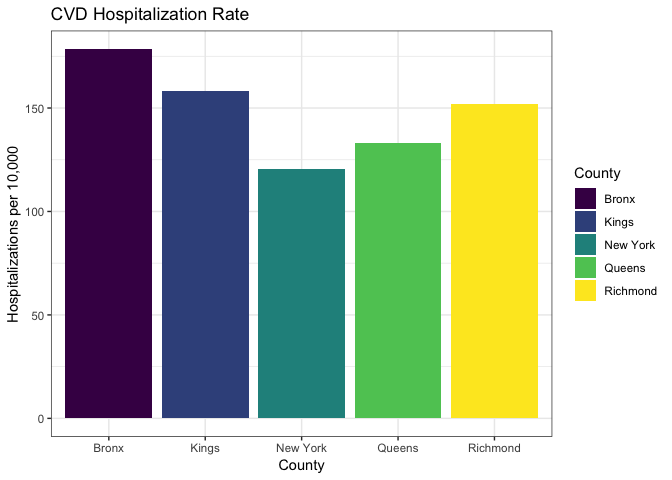
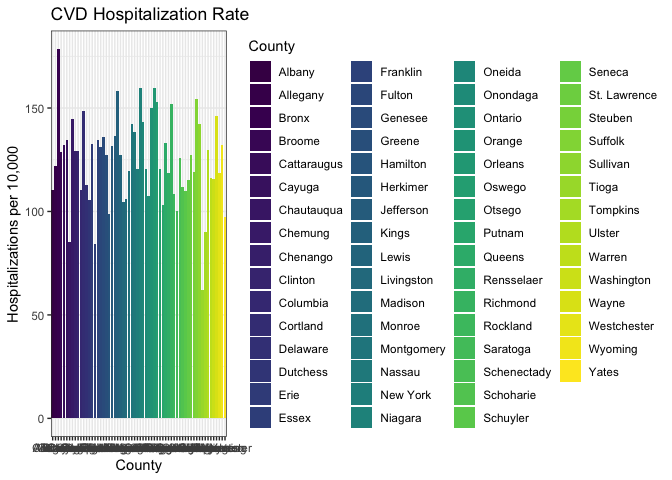
cvd by ny state for div

diff --git a/ashley_exploration_eda.md b/ashley_exploration_eda.md
@@ -51,9 +51,7 @@ Asthma Emergency Department Visit Rate per 10,000 by County in NYC, 2014
 asthma_ed_data = read_csv(file = "./data_AK/PA__Asthma_Emergency_Department_Visit_Rate_Per_10_000_by_County__Latest_Year.csv") %>% 
   janitor::clean_names() %>%
   select(county_name, event_count_rate, average_number_of_denominator_rate, 
-         percentage_rate_ratio) %>% 
-  filter(county_name %in% c("Bronx", "Kings", "New York", "Queens", 
-                            "Richmond"))
+         percentage_rate_ratio)
 ```
 
 Age-Adjusted Cardiovascular Disease Hospitalization Rate per 10,000 by County in NYC, 2012-2014
@@ -65,9 +63,7 @@ cvd_data = read_csv(file = "./data_AK/Community_Health__Age-adjusted_Cardiovascu
   janitor::clean_names() %>%
   filter(health_topic %in% "Cardiovascular Disease Indicators") %>% 
   select(county_name, event_count, average_number_of_denominator, 
-         percent_rate) %>% 
-  filter(county_name %in% c("Bronx", "Kings", "New York", "Queens", 
-                            "Richmond"))
+         percent_rate)
 ```
 
 Note: Richmond County = Staten Island, Kings County = Brooklyn. We can rename from county to boroughs.
@@ -89,6 +85,8 @@ asthma_ed_data %>%
 ```
 
     ## Warning: Ignoring unknown parameters: binwidth, bins, pad
+
+    ## Warning: Removed 1 rows containing missing values (position_stack).
 
 ![](ashley_exploration_eda_files/figure-markdown_github/asthma_ed_bar-1.png)
 
